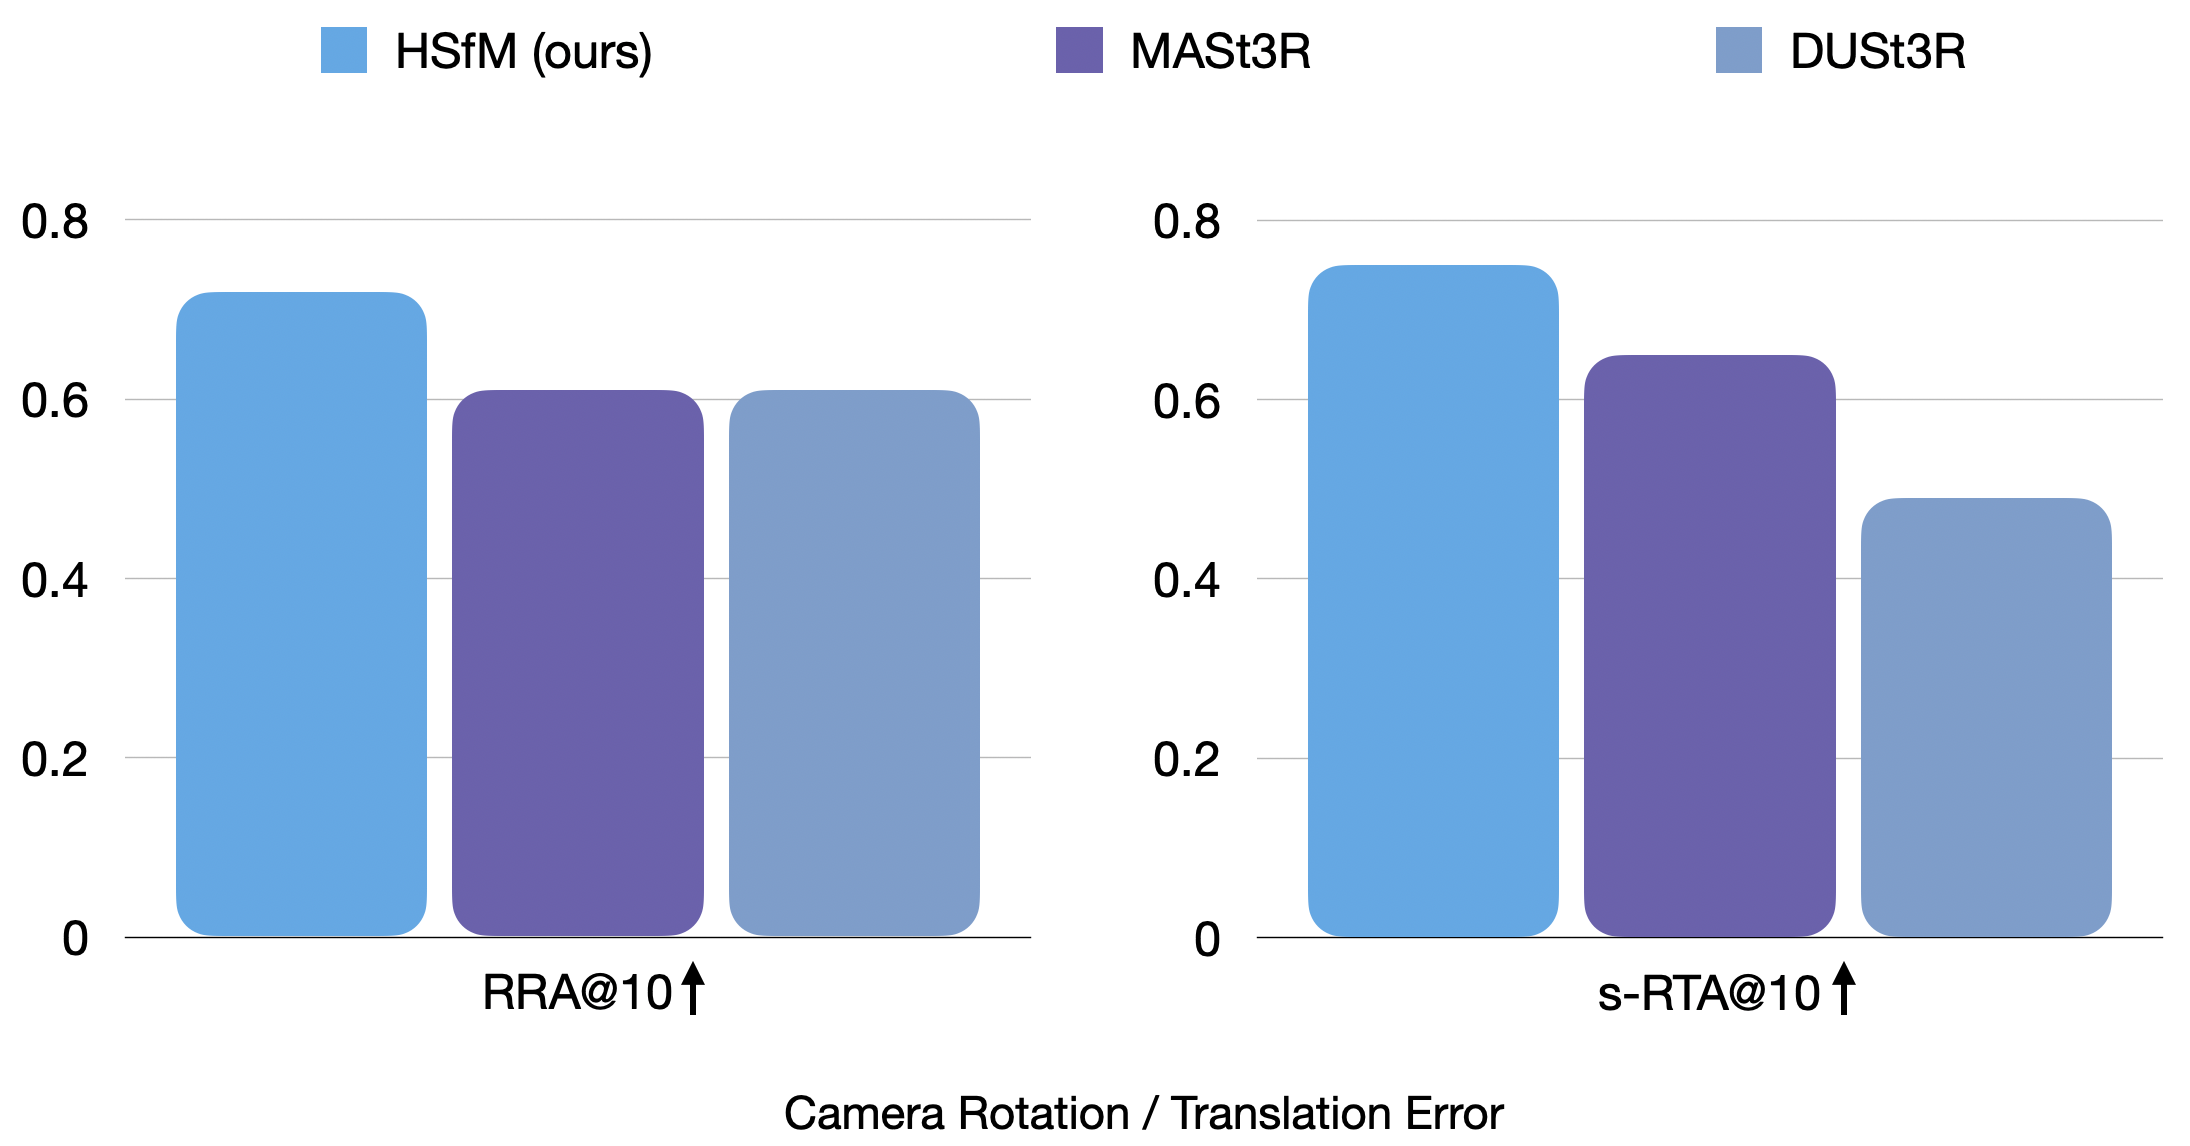
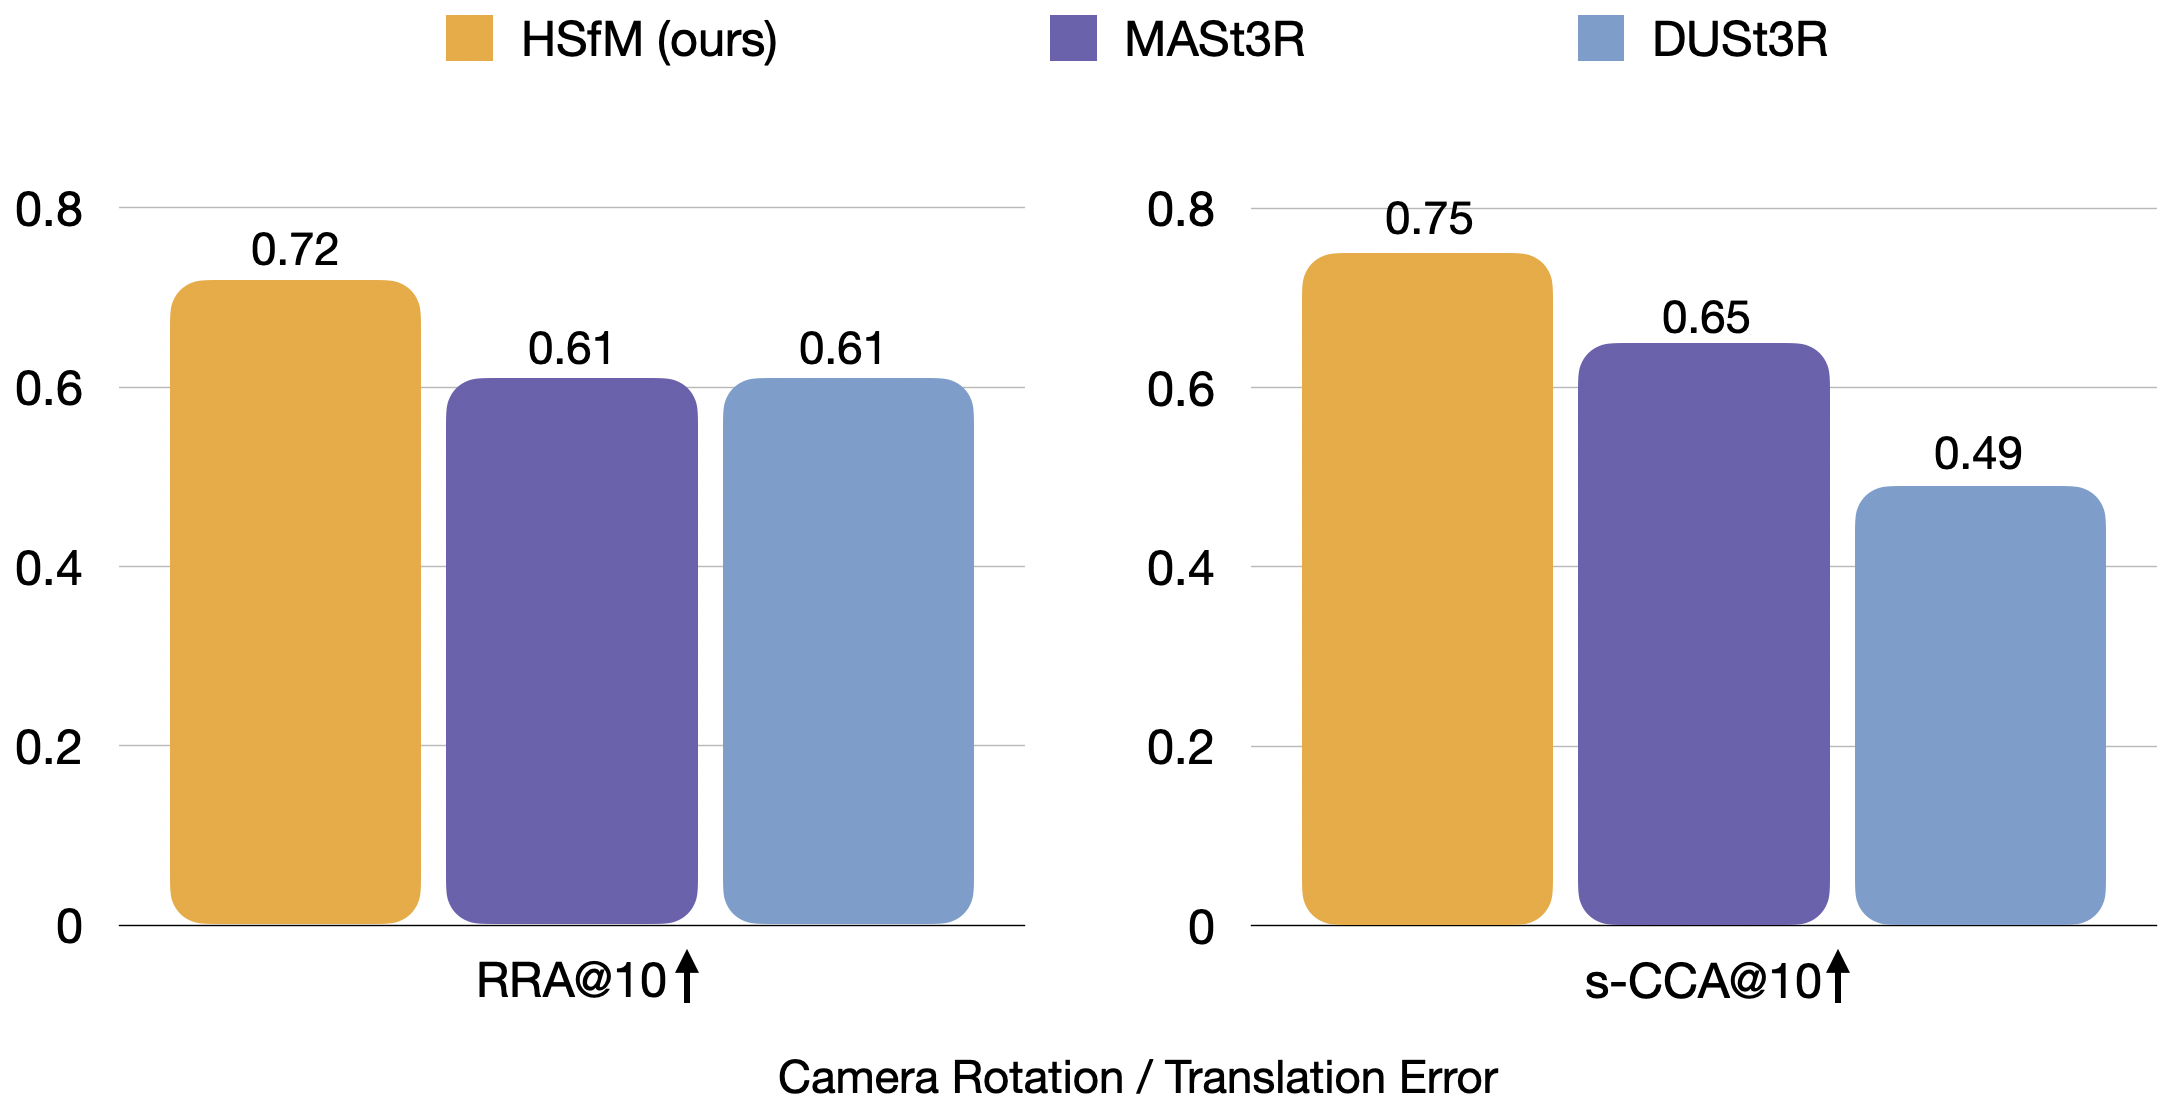
update colors metrics

diff --git a/index.html b/index.html
@@ -457,7 +457,7 @@
         scene. Notably, it also improves camera poses and the scene
         reconstruction itself. Evaluations on public benchmarks show significant
         improvements. Here we show the camera angle (RRA) and scaled translation
-        (s-RTA) accuracy in percent at a threshold of 10 degree / meter on the
+        (s-CCA) accuracy in percent at a threshold of 10 degree / meter on the
         <a href="https://rawalkhirodkar.github.io/egohumans">EgoHumans</a>
         benchmark.
       </p>
